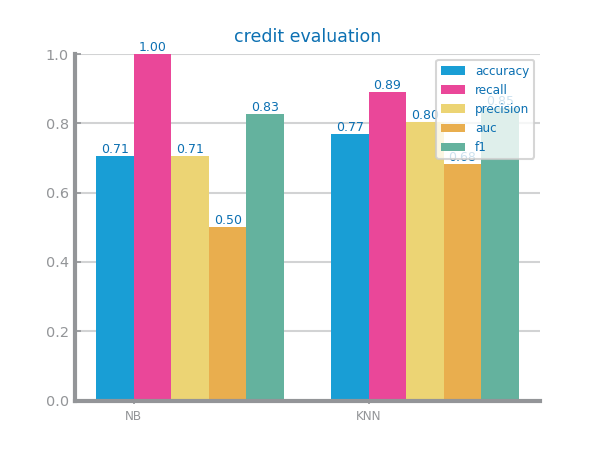
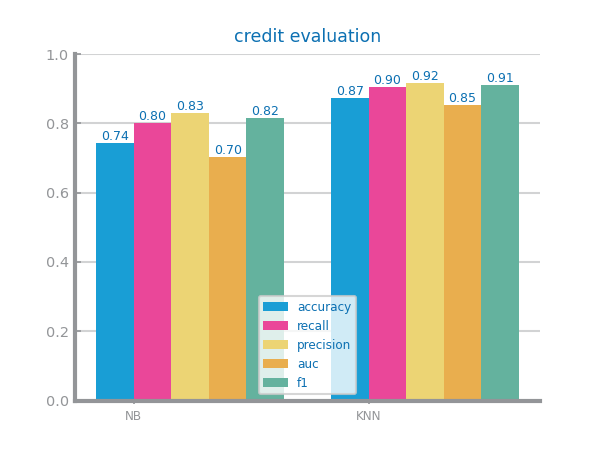
MV acabados

diff --git a/set2.py b/set2.py
@@ -34,12 +34,6 @@ data = data.drop(['ID', 'SSN', 'Name'], axis=1)
 print("Fiz agora o primeiro drop")
 mv_out = MV_out("data/class_credit_score.csv", file_tag, data, 2)
 data = mv_out.data_correction()
-# Preencher os valores ausentes com base no último valor não nulo dentro de cada grupo de 'Customer_ID'
-data['Occupation'] = data.groupby('Customer_ID')['Occupation'].fillna(method='ffill')
-
-# Se ainda houver algum NaN após o preenchimento para o último valor não nulo, preenche com o primeiro valor não nulo
-data['Occupation'] = data.groupby('Customer_ID')['Occupation'].fillna(method='bfill')
-
 
 
 # ------------------------------------------ #
@@ -180,14 +174,15 @@ print()
 filename = "cleaned_data.csv"
 encoding = Encoding(filename, file_tag, data)
 
-
-# Cria uma lista em cada registo com os seus loan types
 def create_loan_type_columns():
     print("vou fazer a correção da data")
     print("fiz a correção da data")
-    # Separar os valores dentro de cada linha usando vírgulas e a palavra "and"
-    # Preeenche os NA com string vazia
-    data['Type_of_Loan'] = data['Type_of_Loan'].fillna('').str.replace('and ', '').str.replace(' ', '').str.split(',')
+
+    # Preencher os valores ausentes na coluna 'Type_of_Loan' com uma string vazia
+    data['Type_of_Loan'] = data['Type_of_Loan'].fillna('').astype(str).str.replace('and ', '').str.replace(' ', '').str.split(',')
+
+    # Adicionar uma coluna 'Without_Loan' e atribuir 1 aos clientes com NumofLoan igual a 0 e célula vazia em 'Type_of_Loan'
+    data['Without_Loan'] = data.apply(lambda row: 1 if row['NumofLoan'] == 0 and all(pd.isna(item) or (isinstance(item, str) and item == '') for item in row['Type_of_Loan']) else 0, axis=1)
 
     existing_loan_types = list()
 
@@ -199,6 +194,7 @@ def create_loan_type_columns():
                 # Adicionar o novo valor à lista
                 existing_loan_types.append(loan_type)
 
+    # Iterar sobre os tipos únicos de empréstimos e criar colunas binárias
     for loan_type in existing_loan_types:
         if loan_type != '':
             data[loan_type] = data['Type_of_Loan'].apply(lambda x: 1 if loan_type in x else 0)
@@ -225,54 +221,62 @@ filename = "encoded.csv"
 mv_out = MV_out(filename, file_tag, encoded_data, 2)
 methodology = Methodology(filename, file_tag, encoded_data)
 
-
-#mv_out.read_mv()
-
-# Primeira approach
-print("EXEMPLO DA PROF")
-df1: DataFrame = mvi_by_filling(encoded_data, strategy="frequent")
-# Salvar o dataset modificado
-df1.to_csv("DF_1.csv", index=False)
-
-# Dividir os dados em conjuntos de treino e teste
-train_data, test_data = train_test_split(df1, test_size=0.3, random_state=42)
-
-methodology.evaluate_approach(train_data, test_data, 1, target=target)
-
-# Segunda approach
-print("NOSSO")
-# df2: DataFrame = mv_out.our_mv(encoded_data)
+#
+# #mv_out.read_mv()
+#
+# # Primeira approach
+# print("EXEMPLO DA PROF")
+# df1: DataFrame = mvi_by_filling(encoded_data, strategy="frequent")
 # # Salvar o dataset modificado
-# df2.to_csv("DF_2.csv", index=False)
+# df1.to_csv("DF_1_PROF.csv", index=False)
+#
+# def count_missing_values(data):
+#     missing_values = data.isnull().sum()
+#     return missing_values
+#
+# # Chame a função para obter o número de valores ausentes em cada coluna
+# resultado1 = count_missing_values(df1)
+# print("Resultado MV PROF:\n",resultado1)
 #
 # # Dividir os dados em conjuntos de treino e teste
-# train_data, test_data = train_test_split(df2, test_size=0.3, random_state=42)
+# train_data, test_data = train_test_split(df1, test_size=0.3, random_state=42)
+# methodology.evaluate_approach(train_data, test_data, 1, target=target)
 #
+# # Segunda approach
+# print("NOSSO")
+# df2: DataFrame = mv_out.our_mv(encoded_data)
+# # Salvar o dataset modificado
+# df2.to_csv("DF_2_NOSSO.csv", index=False)
+#
+# resultado2 = count_missing_values(df2)
+# print("Resultado MV NOSSO:\n",resultado2)
+#
+# # # Dividir os dados em conjuntos de treino e teste
+# train_data, test_data = train_test_split(df2, test_size=0.3, random_state=42)
 # methodology.evaluate_approach(train_data, test_data, 2, target=target)
 
-
-#fill_values_id_based()
+#best_approach = df2
 
 # --------------------- #
 # ----- Outliers ------ #
 # --------------------- #
-
-dataOutliers = MV_out(filename, file_tag, df1, 2)
+best_approach: DataFrame = read_csv("DF_2_NOSSO.csv", na_values="")
+dataOutliers = MV_out(filename, file_tag, best_approach, 2)
 
 #dataOutliers.drop_outliers()
 
 outliers1 = dataOutliers.median_outliers()
-outliers2 = dataOutliers.truncate_outliers()
-
-#Eval Outliers1
-train_data_1, test_data_1 = train_test_split(outliers1, test_size=0.3, random_state=42)
-eval1 = methodology.evaluate_approach(train_data_1, test_data_1, 3, target)
-print(eval1)
-
-#Eval Outliers2
-train_data_2, test_data_2 = train_test_split(outliers2, test_size=0.3, random_state=42)
-eval2 = methodology.evaluate_approach(train_data_2, test_data_2, 4, target)
-print(eval2)
+# outliers2 = dataOutliers.truncate_outliers()
+#
+# #Eval Outliers1
+# train_data_1, test_data_1 = train_test_split(outliers1, test_size=0.3, random_state=42)
+# eval1 = methodology.evaluate_approach(train_data_1, test_data_1, 3, target)
+# print(eval1)
+#
+# #Eval Outliers2
+# train_data_2, test_data_2 = train_test_split(outliers2, test_size=0.3, random_state=42)
+# eval2 = methodology.evaluate_approach(train_data_2, test_data_2, 4, target)
+# print(eval2)
 
 
 # ---------------------------- #
@@ -297,6 +301,7 @@ train_data_2, test_data_2 = train_test_split(scaling2, test_size=0.3, random_sta
 eval2 = methodology.evaluate_approach(train_data_2, test_data_2, 6, target)
 print(eval2)
 
+#best_scaling = scaling1 capaz de ser a primeira
 
 # -------------------- #
 # -- Data Balancing -- #
@@ -310,17 +315,17 @@ print(eval2)
 #
 # #Eval undersampling
 # train_data_1, test_data_1 = train_test_split(undersampling, test_size=0.3, random_state=42)
-# eval1 = methodology.evaluate_approach(train_data_1, test_data_1, 7, target, "accuracy")
+# eval1 = methodology.evaluate_approach(train_data_1, test_data_1, 7, target)
 # print(eval1)
 #
 # #Eval oversampling
 # train_data_2, test_data_2 = train_test_split(oversampling, test_size=0.3, random_state=42)
-# eval2 = methodology.evaluate_approach(train_data_2, test_data_2, 8, target, "accuracy")
+# eval2 = methodology.evaluate_approach(train_data_2, test_data_2, 8, target)
 # print(eval2)
 #
 # #Eval smote
 # train_data_3, test_data_3 = train_test_split(smote, test_size=0.3, random_state=42)
-# eval3 = methodology.evaluate_approach(train_data_3, test_data_3, 9, target, "accuracy")
+# eval3 = methodology.evaluate_approach(train_data_3, test_data_3, 9, target)
 # print(eval3)
 
 
@@ -330,12 +335,12 @@ print(eval2)
 # ----------------- #
 
 methodology = Methodology(filename, file_tag, encoded_data)
-
-# Dividir os dados em conjuntos de treino e teste
-train_data, test_data = train_test_split(encoded_data, test_size=0.3, random_state=42)
-
-#methodology.evaluate_approach(train_data, test_data, target=target)
-
-# guardar os conjuntos de treino e teste em CSV
-train_data.to_csv("credit_train.csv", index=False)
-test_data.to_csv("credit_test.csv", index=False)
+#
+# # Dividir os dados em conjuntos de treino e teste
+# train_data, test_data = train_test_split(encoded_data, test_size=0.3, random_state=42)
+#
+# methodology.evaluate_approach(train_data, test_data, target=target)
+#
+# # guardar os conjuntos de treino e teste em CSV
+# train_data.to_csv("credit_train.csv", index=False)
+# test_data.to_csv("credit_test.csv", index=False)

diff --git a/preparation/mv_and_outliers.py b/preparation/mv_and_outliers.py
@@ -163,9 +163,6 @@ class MV_out:
         # Renomear a coluna para "Credit_History_Age_in_Months"
         data = data.rename(columns={'Credit_History_Age': 'Credit_History_Age_in_Months'})
 
-
-
-
         # Salvar o dataset modificado
         data.to_csv("cleaned_data.csv", index=False)
 
@@ -248,43 +245,82 @@ class MV_out:
                                 # Se houver mais de um valor a ser preenchido, calcular a média
                                 df.loc[idx, 'Credit_History_Age_in_Months'] = np.mean(values_to_fill).astype(int)
 
+        preencher_credit_history_age2(data)
         preencher_credit_history_age1(data)
         preencher_credit_history_age2(data)
 
+        def preencher_celulas_vazias(data, coluna):
+            current_customer = None
+            previous_value = None
 
-        # # Preencher os valores ausentes com base no último valor não nulo dentro de cada grupo de 'Customer_ID'
-        # data['Occupation'] = data.groupby('Customer_ID')['Occupation'].fillna(method='ffill')
-        #
-        # # Se ainda houver algum NaN após o preenchimento para o último valor não nulo, preenche com o primeiro valor não nulo
-        # data['Occupation'] = data.groupby('Customer_ID')['Occupation'].fillna(method='bfill')
+            for index, row in data.iterrows():
+                if current_customer != row['Customer_ID']:
+                    # Novo cliente, reinicia o valor anterior
+                    current_customer = row['Customer_ID']
+                    previous_value = None
 
-        # Preencher os valores ausentes com base no último valor não nulo dentro de cada grupo de 'Customer_ID'
-        data['CreditMix'] = data.groupby('Customer_ID')['CreditMix'].fillna(method='ffill')
+                if pd.isna(row[coluna]):
+                    # Valor vazio, preenche com o número seguinte ao valor anterior
+                    if pd.notna(previous_value):
+                        data.at[index, coluna] = previous_value + 1
 
-        # Se ainda houver algum NaN após o preenchimento para o último valor não nulo, preenche com o primeiro valor não nulo
-        data['CreditMix'] = data.groupby('Customer_ID')['CreditMix'].fillna(method='bfill')
+                # Atualiza o valor anterior
+                previous_value = row[coluna]
 
-        # Preencher os valores ausentes com base no último valor não nulo dentro de cada grupo de 'Customer_ID'
-        data['Monthly_Inhand_Salary'] = data.groupby('Customer_ID')['Monthly_Inhand_Salary'].fillna(method='ffill')
+        preencher_celulas_vazias(data, 'Credit_History_Age_in_Months')
 
-        # Se ainda houver algum NaN após o preenchimento para o último valor não nulo, preenche com o primeiro valor não nulo
-        data['Monthly_Inhand_Salary'] = data.groupby('Customer_ID')['Monthly_Inhand_Salary'].fillna(method='bfill')
+        # Chamar a função para preencher as células vazias em 'Credit_History_Age_in_Months'
+        preencher_celulas_vazias(data, 'Credit_History_Age_in_Months')
+        preencher_celulas_vazias(data, 'Credit_History_Age_in_Months')
+        preencher_celulas_vazias(data, 'Credit_History_Age_in_Months')
 
-        # Preencher os valores ausentes com base no último valor não nulo dentro de cada grupo de 'Customer_ID'
-        data['Age'] = data.groupby('Customer_ID')['Age'].fillna(method='ffill')
+        index_to_change = data[(data['Customer_ID'] == 14528) & (data['Month'] == 1)].index[0]
+        # Modificar manualmente o valor da célula
+        data.at[index_to_change, 'Credit_History_Age_in_Months'] = 95.0
 
-        # Se ainda houver algum NaN após o preenchimento para o último valor não nulo, preenche com o primeiro valor não nulo
-        data['Age'] = data.groupby('Customer_ID')['Age'].fillna(method='bfill')
+        preencher_credit_history_age2(data)
+
+        def fill_values_id_based():
+            variables = ['CreditMix', 'Monthly_Inhand_Salary', 'Age', 'Num_Bank_Accounts', 'NumofLoan',
+                        'Occupation_Accountant', 'Occupation_Architect', 'Occupation_Developer',
+                        'Occupation_Doctor', 'Occupation_Engineer', 'Occupation_Entrepreneur',
+                        'Occupation_Journalist', 'Occupation_Lawyer', 'Occupation_Manager',
+                        'Occupation_Mechanic', 'Occupation_Media_Manager', 'Occupation_Musician',
+                        'Occupation_Scientist', 'Occupation_Teacher', 'Occupation_Writer']
+
+            variables_moda = ['NumCreditInquiries', 'Payment_Behaviour', 'Payment_of_Min_Amount']
+
+            variables_media_int = ['Delay_from_due_date', 'NumofDelayedPayment']
+
+            variables_media = ['ChangedCreditLimit', 'MonthlyBalance', 'Amountinvestedmonthly']
+
+            for var_type in variables:
+                print("Estou nos b e f fill: \n", var_type)
+                # Preencher os valores ausentes com base no último valor não nulo dentro de cada grupo de 'Customer_ID'
+                data[var_type] = data.groupby('Customer_ID')[var_type].fillna(method='ffill')
+
+                # Se ainda houver algum NaN após o preenchimento para o último valor não nulo, preenche com o primeiro valor não nulo
+                data[var_type] = data.groupby('Customer_ID')[var_type].fillna(method='bfill')
+
+            for var_type in variables_moda:
+                print("Estou na moda: \n", var_type)
+                # Preencher os valores ausentes com a moda dentro de cada grupo de 'Customer_ID'
+                data[var_type] = data.groupby('Customer_ID')[var_type].transform(lambda x: x.fillna(x.mode()[0]))
+
+            for var_type in variables_media_int:
+                print("Estou na média_int: \n", var_type)
+                # Preencher os valores ausentes com a média arredondada ao inteiro dentro de cada grupo de 'Customer_ID'
+                data[var_type] = data.groupby('Customer_ID')[var_type].transform(lambda x: x.fillna(round(x.mean())))
+
+            for var_type in variables_media:
+                print("Estou na média: \n", var_type)
+                # Preencher os valores ausentes com a média dentro de cada grupo de 'Customer_ID'
+                data[var_type] = data.groupby('Customer_ID')[var_type].transform(lambda x: x.fillna(x.mean()))
+
+        fill_values_id_based()
+
         print("no fim deste manicomio")
 
-        # def fill_values_id_based():
-        #     variables = ['Occupation', 'CreditMix', 'Monthly_Inhand_Salary', 'Age']
-        #     for var_type in variables:
-        #         # Preencher os valores ausentes com base no último valor não nulo dentro de cada grupo de 'Customer_ID'
-        #         data[var_type] = data.groupby('Customer_ID')[var_type].fillna(method='ffill')
-        #
-        #         # Se ainda houver algum NaN após o preenchimento para o último valor não nulo, preenche com o primeiro valor não nulo
-        #         data[var_type] = data.groupby('Customer_ID')[var_type].fillna(method='bfill')
         return data
 
 

diff --git a/auxiliar/dslabs_functions.py b/auxiliar/dslabs_functions.py
@@ -419,7 +419,7 @@ def dummify(df: DataFrame, vars_to_dummify: list[str]) -> DataFrame:
     other_vars: list[str] = [c for c in df.columns if not c in vars_to_dummify]
 
     enc = OneHotEncoder(
-        handle_unknown="ignore", sparse_output=False, dtype="bool", drop="if_binary"
+        handle_unknown="ignore", sparse_output=False, dtype=int, drop="if_binary"
     )
     trans: ndarray = enc.fit_transform(df[vars_to_dummify])
 
